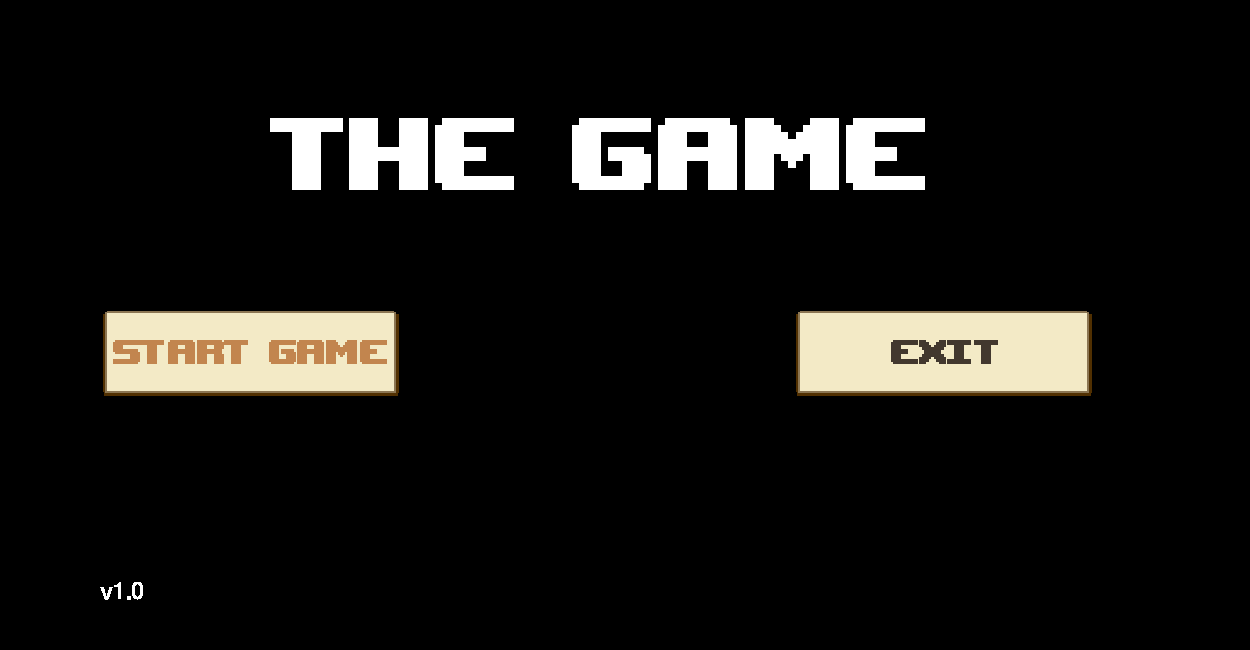
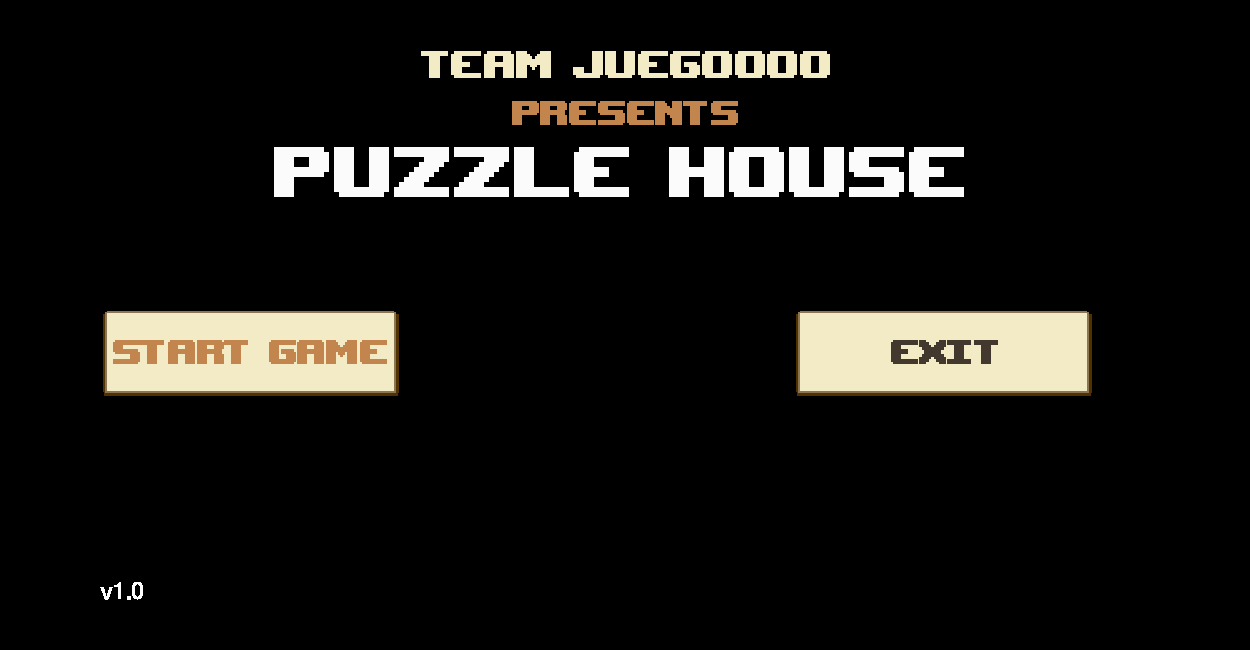
Arreglo nivelB

Changed region(s): [[0.2184, 0.1538, 0.78, 0.3077], [0.3432, 0.0615, 0.6864, 0.1231]]

diff --git a/README.md b/README.md
@@ -1,16 +1,27 @@
-# Juego de Aventura (titulo momentaneo)
+# Puzzle House
 Se tratará de un padre o madre que va a tener que ingeniárselas para salvar a su familia.
 
--Nivel 0 Puzzle inicio
-![](nivel1.png)
-	
--Nivel 1 Exploracion de la casa del personaje principal
-![](mapa.png)
-	
--Nivel 2 Puzzle
-![](nivel2.png)
-## Equipo de desarrollo
+<details>
+ 	<summary>Nivel 0 Puzzle inicio</summary>
+	<img src="https://github.com/algo1unsam/tpgame-juegoooo/blob/master/nivel1.png?raw=true" />
+</details>
 
+<details>
+	<summary>Nivel 1 Exploracion de la casa del personaje principal</summary>
+	<img src="https://github.com/algo1unsam/tpgame-juegoooo/blob/master/mapa.png?raw=true" />
+</details>
+
+<details>
+	<summary>Nivel 2 Puzzle</summary>
+	<img src="https://github.com/algo1unsam/tpgame-juegoooo/blob/master/nivel2.png?raw=true" />
+</details>
+
+<details>
+	<summary>Nivel 3 Puzzle</summary>
+	<img src="https://github.com/algo1unsam/tpgame-juegoooo/blob/master/nivel2.png?raw=true" />
+</details>
+	
+## Equipo de desarrollo
 - Belen
 - Lorenzo
 - Pablo
